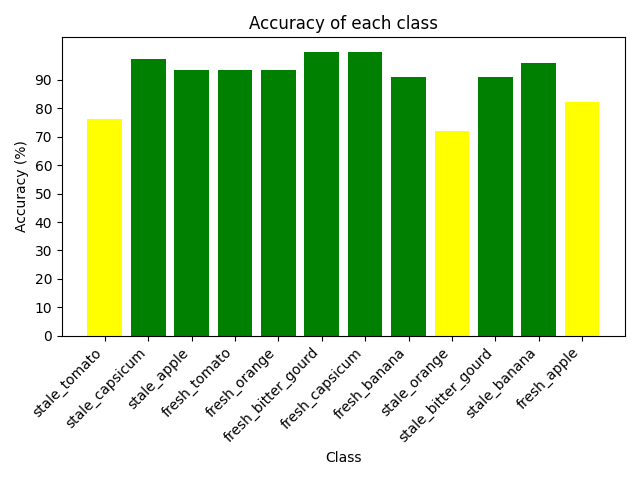
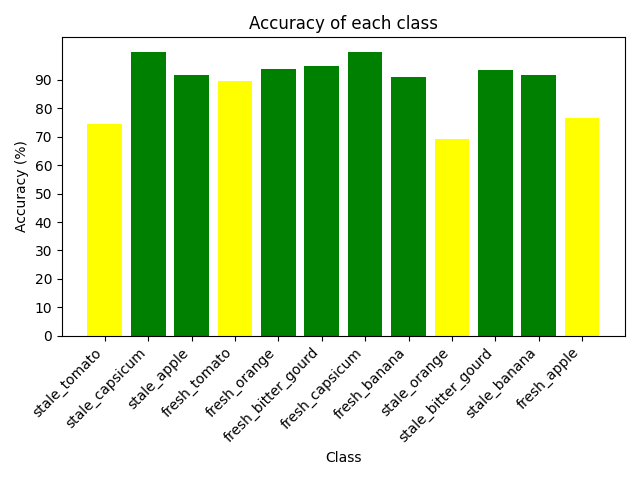
docs work

diff --git a/ML/torch_test.py b/ML/torch_test.py
@@ -53,7 +53,7 @@ with torch.no_grad():
 # Create confusion matrix
 # Normalize the data
 confusion_matrix = metrics.confusion_matrix(all_labels, all_predicted, normalize='true')
-plt.figure(figsize=(10, 10))
+plt.figure()
 plt.imshow(confusion_matrix, interpolation='nearest', cmap=plt.cm.Reds)
 plt.title("Confusion Matrix (Normalized)")
 plt.colorbar()
@@ -73,7 +73,7 @@ for classname, correct_count in correct.items():
 
 # Plot Accuracy of each class
 accs = [(100 * float(v) / total[c]) for c, v in correct.items()]
-bar_colors = ["green" if accuracy > 90 else "yellow" if accuracy > 63 else "red" for accuracy in accs]
+bar_colors = ["green" if accuracy >= 90 else "yellow" if accuracy > 63 else "red" for accuracy in accs]
 plt.ioff()
 plt.figure()
 plt.bar(range(len(correct)), accs, align='center', color=bar_colors)
@@ -87,6 +87,8 @@ plt.savefig("images/accuracy.png")
 
 # Print overall accuracy
 print("Overall accuracy: %2d %%" % (100 * sum(correct.values()) / sum(total.values())))
+
+print("Mean Accuracy across classes %.2f %%" % (np.mean(accs)))
 
 
 for classname, wrong_count in wrongs.items():

diff --git a/docs/index.md b/docs/index.md
@@ -2,10 +2,12 @@
 # Feel free to add content and custom Front Matter to this file.
 # To modify the layout, see https://jekyllrb.com/docs/themes/#overriding-theme-defaults
 
-layout: home
+layout: default
 ---
 
-## Background
+# Produce Classification Using Computer Vision
+
+# Background
 
 Since the start of the Agricultural Revolution, technology has fueled many of the advancements in the production, cultivation and management practices of the agricultural industry. Today, as the shrinking number of agricultural workers continues to diminish in the U.S, farmers are once again looking to technology to solve the issues presented to them. The practice of sorting and grading produce at the time of harvest is a great undertaking that requires a lot of time, manual labor and resources. To minimize these constraints, automation is favorable when the task at hand is very mundane and repetitive. Emerging technologies in the field of computer vision, robotics and machine learning have made it possible for this automation to take place. Many Farms across the U.S are already making use of these technologies by supporting automations in the seeding/weeding, harvesting and even fertilization processes. The problem we have decided to take on for our project is in the sorting and grading portion after the harvest, when many laborers and resources are used to sort through the produce. What we wish to solve for this project is the problem of classifying produce as rotten or fresh. We will achieve this through state of the art computer vision and machine learning techniques we have learned in class. We will be using modern methods of computational filtering in order to preprocess the images. This will be important before sending them downstream to our machine learning model to reduce noise and detect edges and boundaries. When applying a machine learning model we will aim to use the latest and most established libraries to further our learning and establish the most accurate results.This process has been previously created and implemented in many farms today, but we wish to understand and possibly even expand on this research, as it would help many Agricultural workers. While we will closely follow past research and methods in order to achieve our goals, this project will give us the opportunity to gain experience using Neural networks, as well as try different computational filters to try and solve this widespread problem. The world population is only growing along with the demand for food, and issues such as these are paramount to the sustainability of the world food supply. By solving this issue we can reduce the manual labor and time required to sort and grade the produce, which will give more time and resources back to the farmer. 
 
@@ -20,6 +22,7 @@ Using a dataset of annotated pictures, we could use existing machine learning li
 
 ### Gathering and Preprocessing Data
 We used a dataset of 14,700 images from Kaggle.com. This dataset has 12 classes, fresh and stale apples, oranges, bananas, gourds, capsicums, and tomatos and To preprocss the data we simply resized the image down to 50 by 50 pixels and normalized the pixel values. We then split the data into a training and testing set with a 95%/5% split.
+
 ![](images/classes.png)
 <div align="center"> Figure 1: The 12 classes of produce in the dataset </div>
 
@@ -35,6 +38,7 @@ The best performing classes were fresh and stale capsicum and gourds with 100% a
 
 ![](images/accuracy.png)
 <div align="center"> Figure 2: The accuracy of the model for each class </div>
+
 ![](images/confusion_matrix.png)
 <div align="center"> Figure 3: The confusion matrix for the model </div>
 
